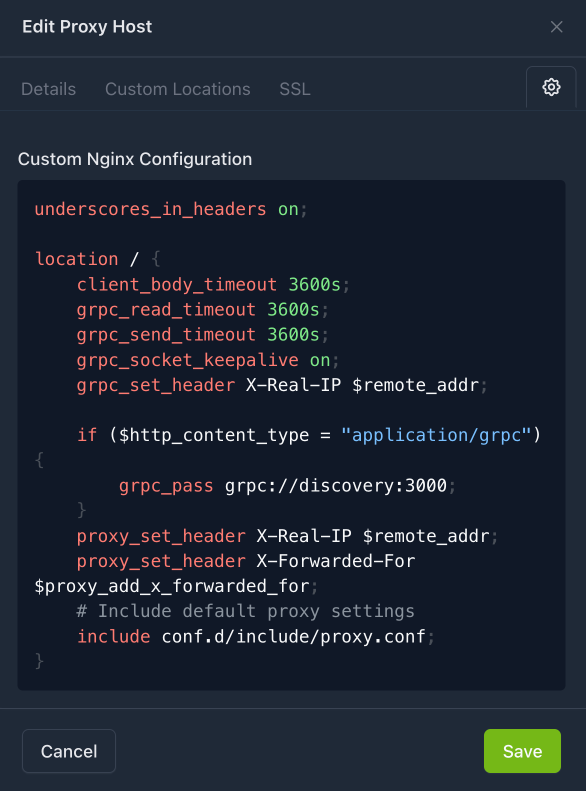
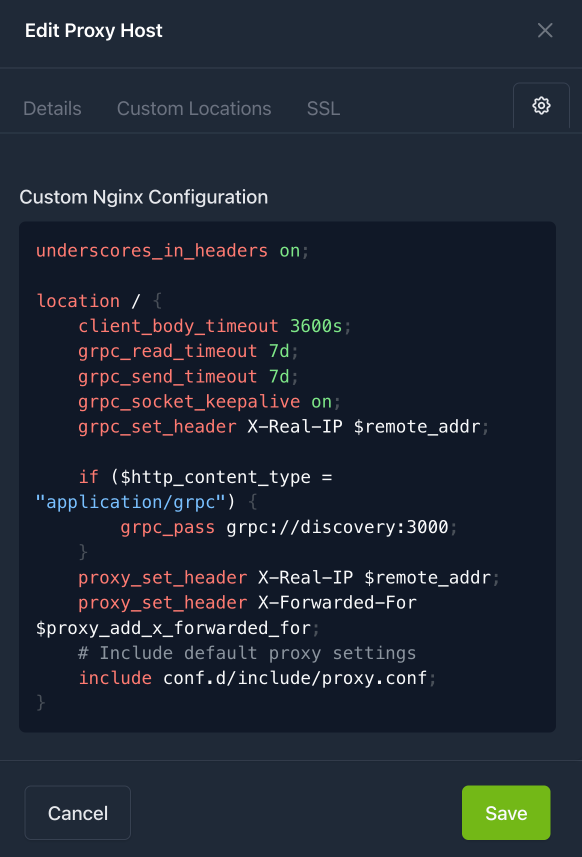
discovery docs: 7d grpc timeouts, image v1.1.3, refreshed config screenshot

diff --git a/discovery-service/README.md b/discovery-service/README.md
@@ -14,7 +14,7 @@ Create `compose.yml` file with contents:
 ```yaml
 services:
   discovery:
-    image: ghcr.io/siderolabs/discovery-service:v1.0.17
+    image: ghcr.io/siderolabs/discovery-service:v1.1.3
     container_name: discovery
     hostname: discovery
     command:
@@ -64,8 +64,8 @@ underscores_in_headers on;
 
 location / {
     client_body_timeout 3600s;
-    grpc_read_timeout 3600s;
-    grpc_send_timeout 3600s;
+    grpc_read_timeout 7d;
+    grpc_send_timeout 7d;
     grpc_socket_keepalive on;
     grpc_set_header X-Real-IP $remote_addr;
 
